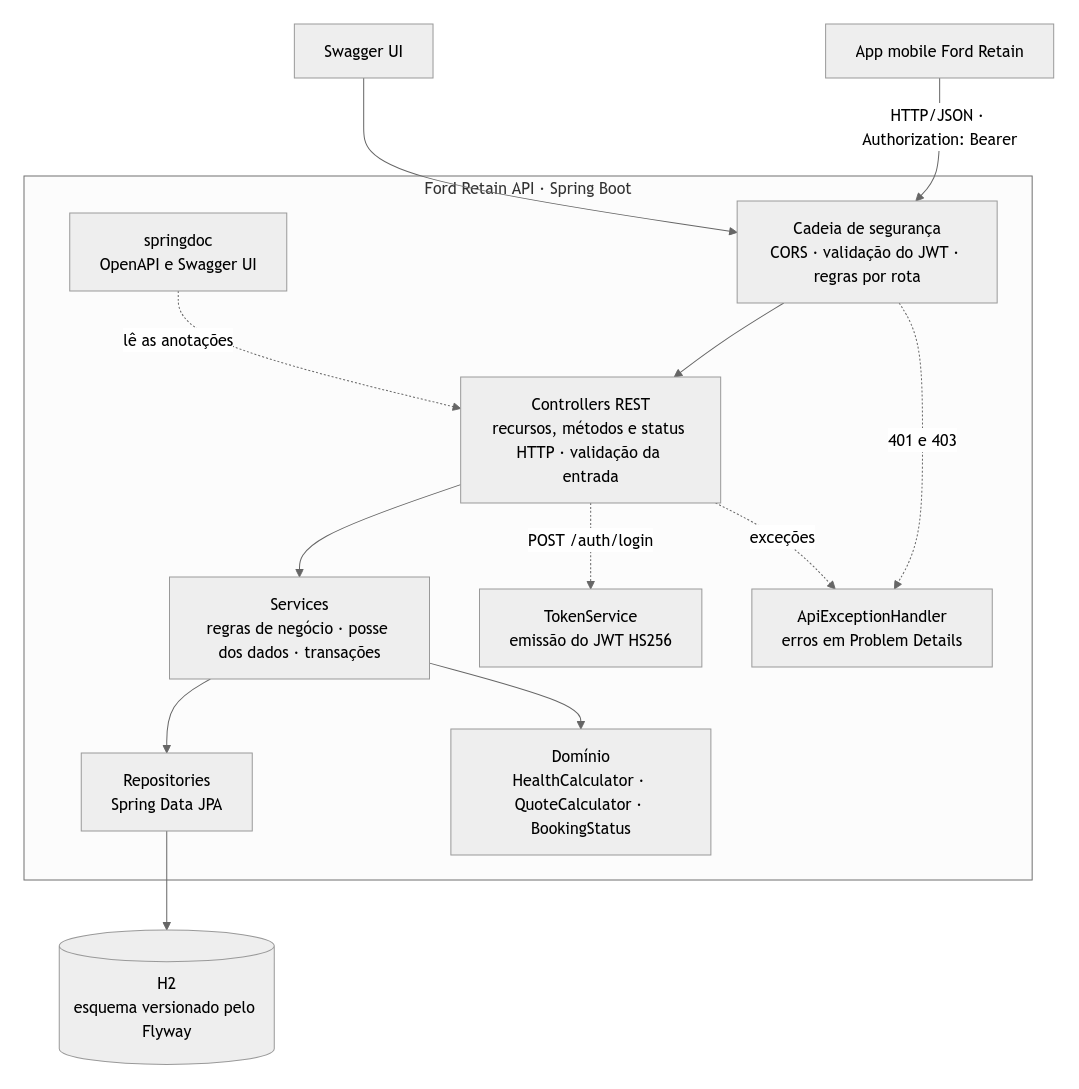
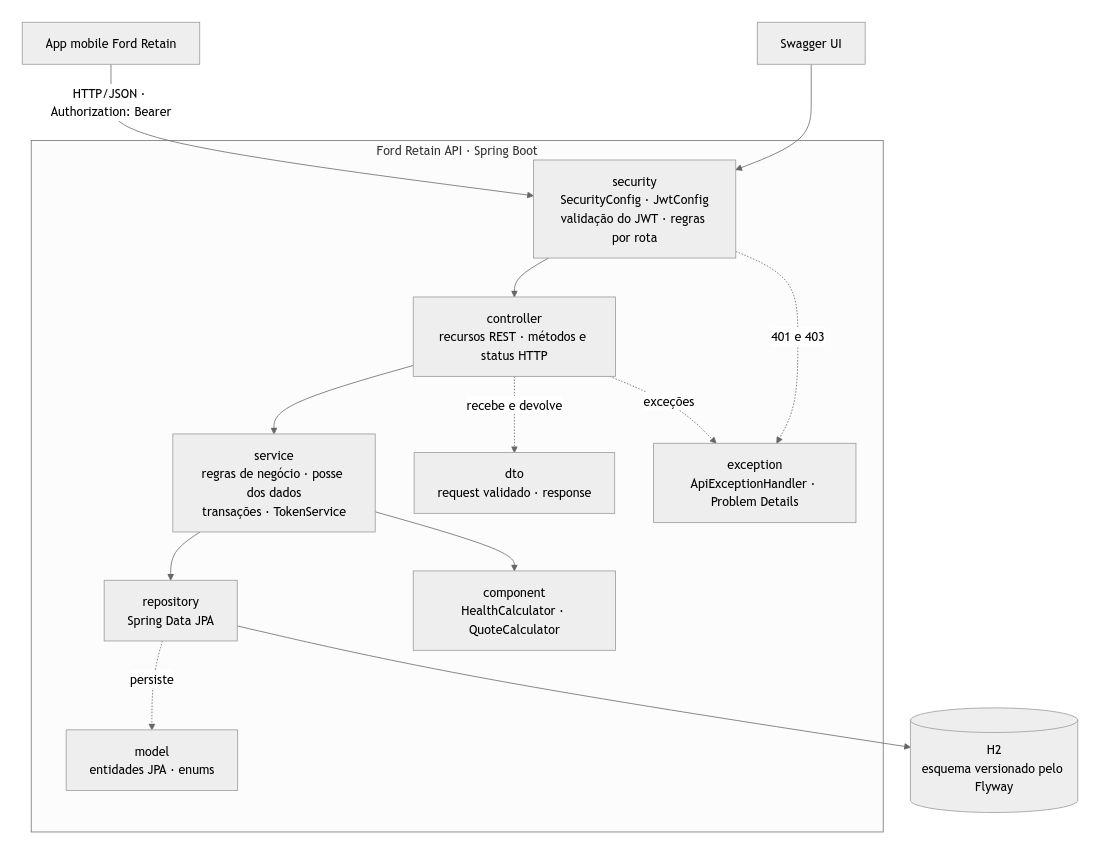
docs: describe the layered architecture in the readme and the component diagram

diff --git a/README.md b/README.md
@@ -83,10 +83,12 @@ curl -s localhost:8080/vehicles/1/health -H "Authorization: Bearer $TOKEN"
 
 ## Arquitetura
 
-A aplicação é um monólito em camadas, organizado por funcionalidade. Cada
-módulo (`auth`, `user`, `vehicle`, `dealer`, `booking`, `news`) tem seu
-controller, service, repository e DTOs; segurança, erros e documentação são
-transversais.
+A aplicação é organizada em camadas, cada uma num pacote com uma
+responsabilidade só. Uma requisição percorre sempre o mesmo caminho: a camada
+de segurança valida o token, o controller recebe o DTO de entrada, o service
+aplica as regras de negócio (apoiado pelos components de cálculo), o repository
+acessa o banco e a resposta volta como DTO de saída. As entidades do `model`
+nunca saem da API.
 
 ```mermaid
 flowchart TB
@@ -94,21 +96,21 @@ flowchart TB
     SW["Swagger UI"]
 
     subgraph API["Ford Retain API · Spring Boot"]
-        SEC["Cadeia de segurança<br/>CORS · validação do JWT · regras por rota"]
-        CTRL["Controllers REST<br/>recursos, métodos e status HTTP · validação da entrada"]
-        SVC["Services<br/>regras de negócio · posse dos dados · transações"]
-        REPO["Repositories<br/>Spring Data JPA"]
-        TOK["TokenService<br/>emissão do JWT HS256"]
-        ERR["ApiExceptionHandler<br/>erros em Problem Details"]
-        DOM["Domínio<br/>HealthCalculator · QuoteCalculator · BookingStatus"]
-        DOC["springdoc<br/>OpenAPI e Swagger UI"]
+        SEC["security<br/>SecurityConfig · JwtConfig<br/>validação do JWT · regras por rota"]
+        CTRL["controller<br/>recursos REST · métodos e status HTTP"]
+        SVC["service<br/>regras de negócio · posse dos dados<br/>transações · TokenService"]
+        COMP["component<br/>HealthCalculator · QuoteCalculator"]
+        REPO["repository<br/>Spring Data JPA"]
+        DTO["dto<br/>request validado · response"]
+        MODEL["model<br/>entidades JPA · enums"]
+        EXC["exception<br/>ApiExceptionHandler · Problem Details"]
 
         SEC --> CTRL --> SVC --> REPO
-        CTRL -.->|"POST /auth/login"| TOK
-        SEC -.->|"401 e 403"| ERR
-        CTRL -.->|"exceções"| ERR
-        SVC --> DOM
-        DOC -.->|"lê as anotações"| CTRL
+        SVC --> COMP
+        CTRL -.->|"recebe e devolve"| DTO
+        REPO -.->|"persiste"| MODEL
+        SEC -.->|"401 e 403"| EXC
+        CTRL -.->|"exceções"| EXC
     end
 
     DB[("H2<br/>esquema versionado pelo Flyway")]
@@ -118,31 +120,35 @@ flowchart TB
     REPO --> DB
 ```
 
-| Componente | Responsabilidade |
-| --- | --- |
-| Cadeia de segurança (`security/SecurityConfig`) | Separa rotas públicas das protegidas, valida o token em toda requisição e converte o perfil do token em permissões |
-| Controllers | Expõem os recursos, validam a entrada com Bean Validation e escolhem o status HTTP de cada resposta |
-| Services | Aplicam as regras de negócio e a posse dos dados: cliente só vê o que é dele, atendente só o que é da sua concessionária |
-| Regras de domínio (`vehicle/health`, `BookingStatus`) | Cálculo do laudo, montagem da revisão e ciclo de vida do agendamento, em código puro e testado isoladamente |
-| Repositories | Acesso ao banco com Spring Data JPA; listagens com `@EntityGraph` para evitar consultas N+1 |
-| `TokenService` e `JwtConfig` | Emitem e validam o JWT |
-| `ApiExceptionHandler` | Traduz toda exceção, inclusive as de segurança, para o mesmo formato de erro |
-| Flyway (`db/migration`) | Versiona o esquema do banco; o Hibernate só valida o mapeamento (`ddl-auto: validate`) |
-| `DemoDataSeeder` | Popula concessionárias, agenda, contas, veículos e novidades quando o banco está vazio |
+| Camada | Responsabilidade | Classes |
+| --- | --- | --- |
+| `controller` | Expõe os recursos REST: rota, método HTTP, validação da entrada (`@Valid`), perfil exigido (`@PreAuthorize`) e status da resposta. Não tem regra de negócio | `AuthController`, `UserController`, `VehicleController`, `DealerController`, `BookingController`, `NewsController` |
+| `service` | Casos de uso e regras de negócio: posse dos dados, conflitos, ciclo de vida do agendamento e transações. Emite o token no login | `AuthService`, `TokenService`, `UserService`, `VehicleService`, `DealerService`, `BookingService`, `NewsService` |
+| `component` | Cálculos reutilizáveis injetados nos services, sem acesso a banco e testados isoladamente | `HealthCalculator` (laudo de saúde), `QuoteCalculator` (revisão recomendada) |
+| `repository` | Acesso a dados com Spring Data JPA; listagens com `@EntityGraph` para evitar consultas N+1 | `UserRepository`, `VehicleRepository`, `DealerRepository`, `ServiceSlotRepository`, `BookingRepository`, `NewsRepository` |
+| `model` | Entidades JPA e, em `model/enums`, os valores de domínio: perfis, status de saúde e de agendamento, tipos de componente | `User`, `Vehicle`, `VehicleComponent`, `Dealer`, `ServiceSlot`, `Booking`, `News` |
+| `dto` | Contrato da API: `dto/request` com as validações de entrada e `dto/response` com o formato de cada resposta | `VehicleRequest`, `HealthReport`, `ServiceQuote`, `TokenResponse`... |
+| `security` | Cadeia de filtros, rotas públicas e protegidas, validação do JWT, conversão do perfil em permissões e usuário autenticado | `SecurityConfig`, `JwtConfig`, `JwtProperties`, `AuthenticatedUser` |
+| `exception` | Exceções de negócio com status e código, e o handler que converte toda falha em Problem Details | `ApiExceptionHandler`, `NotFoundException`, `ConflictException`, `BusinessRuleException` |
+| `config` | OpenAPI, relógio da aplicação, MVC e carga dos dados de demonstração | `OpenApiConfig`, `ClockConfig`, `WebConfig`, `DemoDataSeeder` |
+| `db/migration` | Esquema do banco versionado pelo Flyway; o Hibernate só valida o mapeamento (`ddl-auto: validate`) | `V1__create_schema.sql` |
 
 ```
 src/main/java/com/fordretain/api
-├── auth/          cadastro e login
-├── user/          contas e perfis
-├── vehicle/       veículos e componentes
-│   └── health/    laudo de saúde e revisão recomendada
-├── dealer/        concessionárias e horários da oficina
-├── booking/       agendamentos e ciclo de vida
-├── news/          novidades da rede
-├── security/      cadeia de filtros, JWT e usuário autenticado
-├── common/error/  exceções de negócio e respostas de erro
-├── config/        OpenAPI, relógio e MVC
-└── seed/          dados de demonstração
+├── controller/        endpoints REST
+├── service/           regras de negócio e emissão do token
+├── component/         cálculo do laudo e da revisão recomendada
+├── repository/        acesso a dados (Spring Data JPA)
+├── model/             entidades JPA
+│   └── enums/         perfis, status e tipos de componente
+├── dto/
+│   ├── request/       entrada validada
+│   └── response/      formato das respostas
+├── security/          filtros, JWT e usuário autenticado
+├── exception/         exceções e respostas de erro padronizadas
+└── config/            OpenAPI, relógio, MVC e dados de demonstração
+src/main/resources/db/migration     esquema do banco (Flyway)
+src/test/java/com/fordretain/api    testes, nos mesmos pacotes das camadas
 ```
 
 ### Fluxo de comunicação e autenticação
